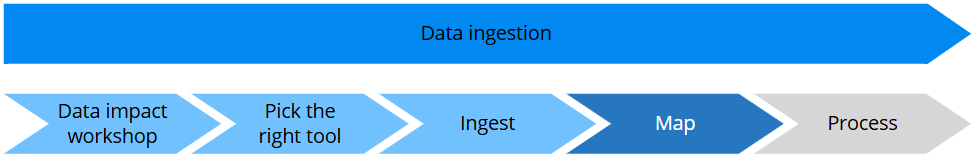
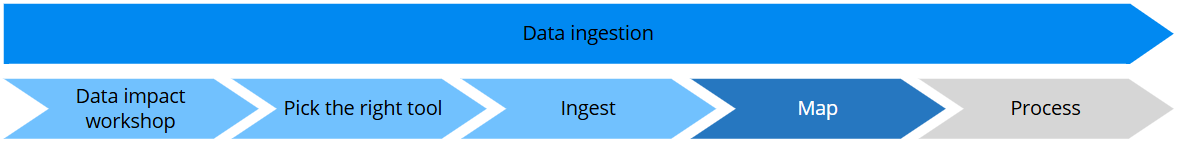
Added a diagram showing the place in data journey

diff --git a/docs/210-playbooks/data-ingestion/003-ingest-data.md b/docs/210-playbooks/data-ingestion/003-ingest-data.md
@@ -15,15 +15,14 @@ title: Ingest data
 |--|--|
 | Data Engineer, Data Analyst | 3 min |
 
-**Before you start:**
+**You are here in the data journey**
+
+![data-ingestion-you-are-here.png](../../assets/images/playbooks/data-ingestion-you-are-here.png)
+
+**Before you start**
 
 - Make sure you have conducted the [data impact workshop](/playbooks/data-ingestion-playbook/data-impact-workshop) to understand what sources you want to use first.
-
 - Make sure you are familiar with the available tools for data ingestion and have [picked the right tool](/playbooks/data-ingestion-playbook/pick-the-right-tool) for your use case.
-
-**CluedIn terms you'll see here:**
-
-- [Entity type](/key-terms-and-features/entity-type)
 
 Now that you have prepared a list of sources and selected a tool for data ingestion, you can start the actual data ingestion process. This process consists of three steps—ingest, map, and process. In this article, we'll focus on the first step to get your data into CluedIn.
 
@@ -56,9 +55,7 @@ When the data is ingested into CluedIn, it will be represented in the following 
 ![structure-of-ingested-data.png](../../assets/images/playbooks/structure-of-ingested-data.png)
 
 - **Group** – this is a folder to organize your sources in a logical form.
-
 - **Data source** – this is an object that contains the necessary information on how to connect to the source (if applicable), as well as the users and roles that have permissions to the source. Think of it like a database in SQL Server.
-
 - **Data set** – this is the actual data obtained from the source. The data set contains unprocessed records, mapping information, quarantine capabilities, and rules applied to your raw records. Think of it like a table in a SQL Server database.
 
 ## Data ingestion results

diff --git a/docs/210-playbooks/data-ingestion/002-pick-the-right-tool.md b/docs/210-playbooks/data-ingestion/002-pick-the-right-tool.md
@@ -15,11 +15,17 @@ title: Pick the right tool
 |--|--|
 | Data Engineer, Data Analyst | 7 min |
 
+**You are here in the data journey**
+
+![data-ingestion-you-are-here.png](../../assets/images/playbooks/data-ingestion-you-are-here.png)
+
+**Before you start**
+
+- Make sure you have conducted the [data impact workshop](/playbooks/data-ingestion-playbook/data-impact-workshop) to understand what sources you want to use first.
+
 This article outlines all the possible tools that can be used to ingest data into CluedIn. By understanding the specifics of each tool, you can decide which one will be the most suitable for your use case.
 
 ![pick-the-right-tool-intro.png](../../assets/images/playbooks/pick-the-right-tool-intro.png)
-
-**Before you start:** Make sure you have conducted the [data impact workshop](/playbooks/data-ingestion-playbook/data-impact-workshop) to understand what sources you want to use first.
 
 Now that you have a list of sources that you want to use, you can prepare a data ingestion plan. The first decision to make is how to ingest the data. CluedIn provides multiple **out-of-the-box options** for data ingestion (as shown in the diagram below). However, the best way to get the data from the source depends on your infrastructure.
 

diff --git a/docs/210-playbooks/data-ingestion/004-concept-of-mapping.md b/docs/210-playbooks/data-ingestion/004-concept-of-mapping.md
@@ -15,7 +15,11 @@ title: Concept of mapping
 |--|--|
 | Data Engineer, Data Analyst | 5 min |
 
-**Before you start:**
+**You are here in the data journey**
+
+![data-ingestion-you-are-here.png](../../assets/images/playbooks/data-ingestion-you-are-here.png)
+
+**Before you start**
 
 - Make sure you have conducted the [data impact workshop](/playbooks/data-ingestion-playbook/data-impact-workshop) to understand what sources you want to use first.
 - Make sure you are familiar with the available tools for data ingestion and have [picked the right tool](/playbooks/data-ingestion-playbook/pick-the-right-tool) for your use case.

diff --git a/docs/210-playbooks/data-ingestion/001-data-impact-workshop.md b/docs/210-playbooks/data-ingestion/001-data-impact-workshop.md
@@ -17,6 +17,8 @@ title: Data impact workshop
 
 This article outlines the importance of the data impact workshop as the first step of your data ingestion process.
 
+![data-impact-workshop-intro.png](../../assets/images/playbooks/data-impact-workshop-intro)
+
 The data impact workshop is a collaborative session designed to help you identify your business domains, determine the data sources to ingest, and assess their criticality to your operations.
 
 {:.important}
